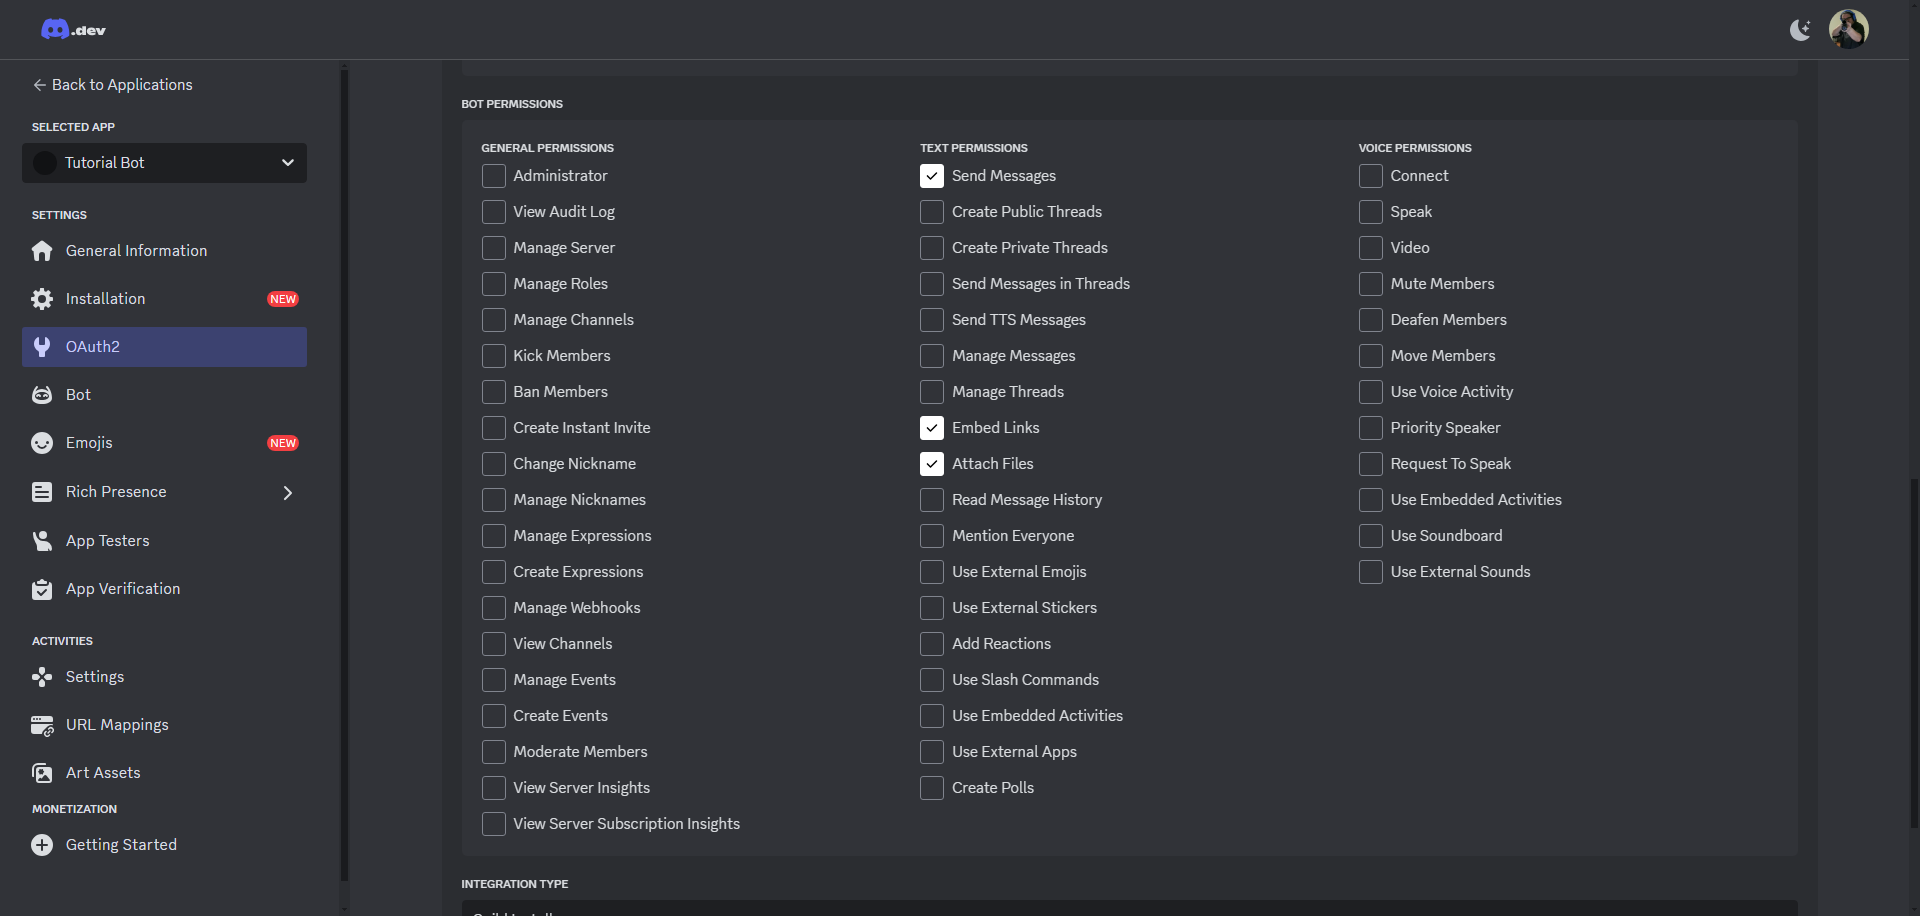
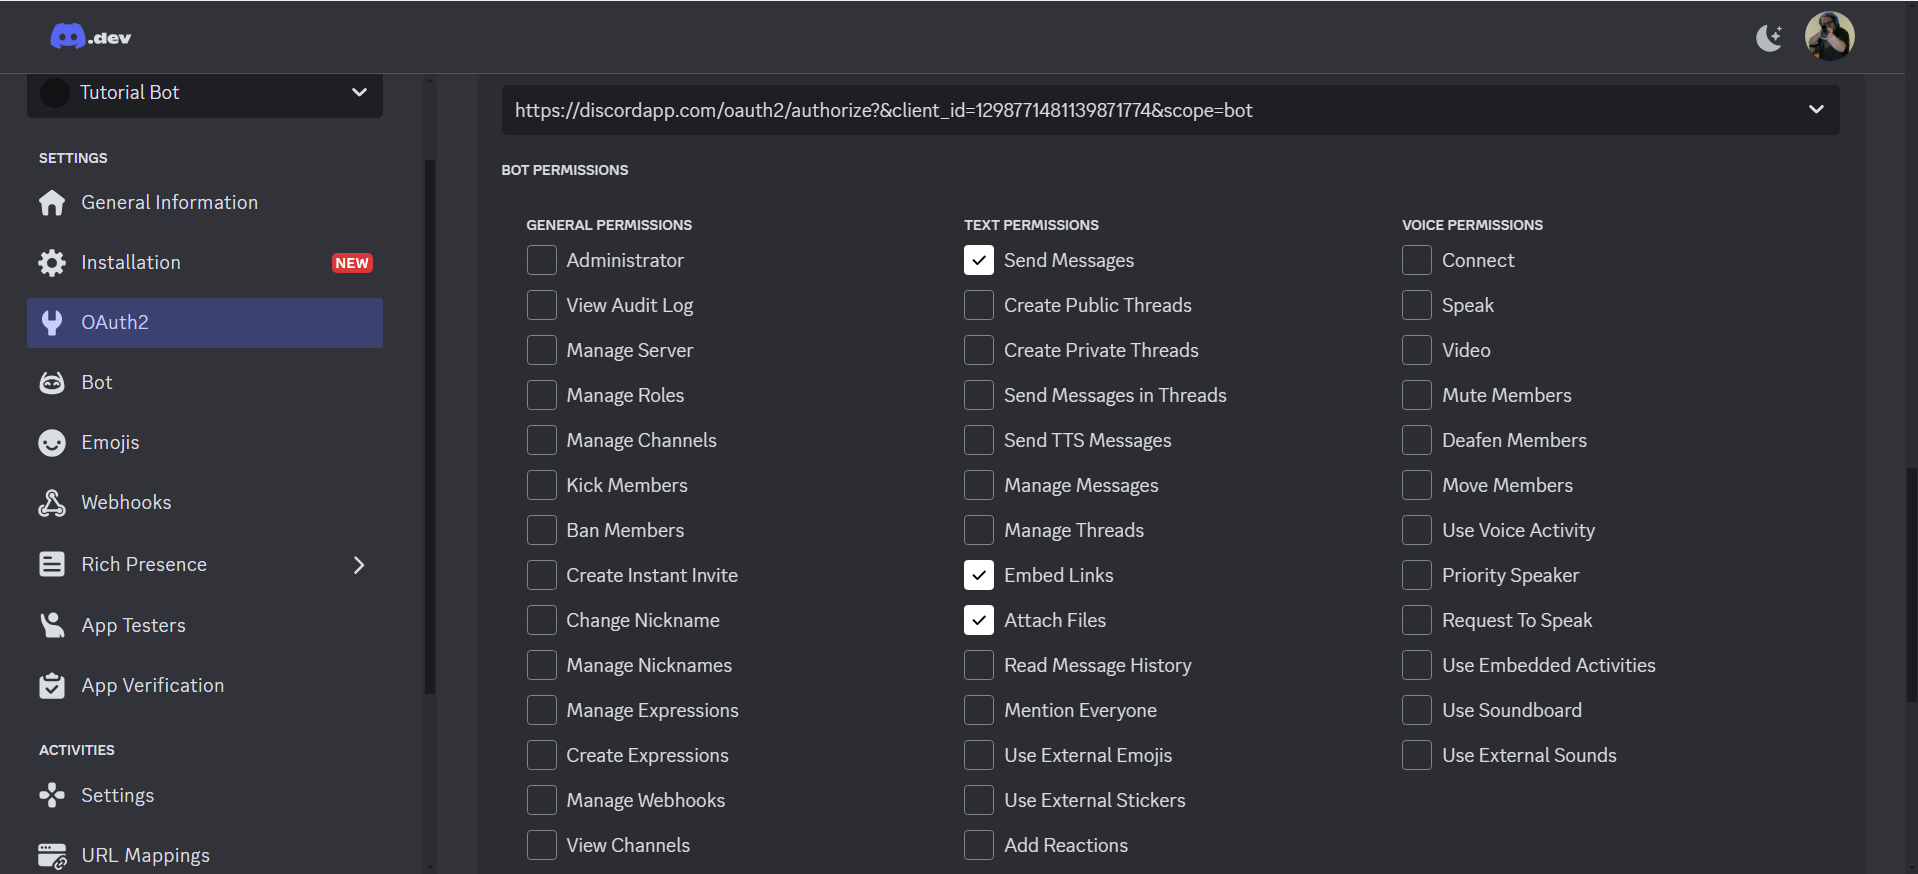
Final touches to this branch which finish the README with the finishing of the instructions and the addition of a short troubleshooting section

diff --git a/README.md b/README.md
@@ -35,8 +35,11 @@ To make a Discord bot you will need to have somewhere to create it and Python it
 * Click the "For me and my freinds button".
 * Name your server and click create. ![name your server](Name_The_Server.png)
 ### 8. Invite the bot to the test server you just made.
+* Go to the Bot tab and scroll down to "Priveleged Gatewat Intents" and turn **on** message content intent. ![turn this on](message-content-intent.png)
 * Go to the OAuth2 tab in your [Discord developer portal](https://discord.com/developers/applications) page for your bot.!(OAuth2 Location)[OAuth2_Loacation.png]
-* Check the bot box under scopes for bot. ![bot scope](Scope-discord.png)
+* Set the URI Redirect to "https://discordapp.com/oauth2/authorize?&client_id={your Client ID here}&scope=bot" ![Redirect URI](ReDirect-URI.png)
+* Check the bot and messages.read boxes under scopes for bot. ![bot scope](Scope-discord.png)
+* Select the Redirect URI you just made. ![Select the Redirect URI](Select-Redirect-URI.png)
 * Check the bot permissions shown in the picture below. ![bot permissions](Bot-permissions.png)
 * Copy the generated URL. ![the generated URL](copy-URL.png)
 * Copy your new URL into your browser.
@@ -63,17 +66,21 @@ prefix = '!'
 ```python
 interval = 7200
 ```
+* Set a variable named first_time and make its value 1
+```python
+first_time = 1
+```
 * Set the client variable up:
 ```python
 client = discord.Client
 ```
 * Finally declare your class and stub out your messages: 
 ```python
+@tasks.loop()
+async def on_interval():
+
+
 class MyClient(discord.Client):
-
-	@tasks.loop()
-	async def on_interval():
-
 
 	async def on_ready(self):
 
@@ -133,29 +140,44 @@ if(prefix + 'gifs') in message_content:
 # this goes in the on_message() function
 if (prefix + 'set interval') in message:
 ```
-* Now we want to edit the global variable (the variable outside the class) called interval. To do this we will start by writing the following line of code inside the if statement:
+* Now we want to edit the global variables (the variables outside the class) called interval and first_time. To do this we will start by writing the following line of code inside the if statement:
 ```python
 # inside the if statement you just wrote
 global interval
+global first_time
 ```
-* The previous step allows us to access the interval variable that is global instead of making a new variable inside the if statement. Now we will set the interval to the value sent by the user in the command using the following command:
+* The previous step allows us to access the interval and first_time variables that is global instead of making a new variable inside the if statement. Now we will set the interval to the value sent by the user in the command using the following command and set first_time to 1:
 ```python
 # inside the if statement you just wrote
 interval = int(message_content[15:])
+first_time = 1
 ```
 * The previous step just takes the last bit of the message (the part after the space between the word interval and the new interval value) and turns it into an int to set the new interval.
+* Now we will reset the on_interval command to run with the new interval.
+```python
+on_interval.change_interval(seconds = interval)
+```
 ### 16. Create the on_interval method.
 * The interval method already is set up to run on the interval defined by the interval variable using the
 ```python
-@tasks.loop(interval)
+@tasks.loop(seconds = interval)
 ```
 command above the methods header.
 * Acquire the channel ID of the channel you want this message to be sent in by right clicking the channel you want it sent in and clicking "Copy Channel ID". ![drop down menu](Channel-Drop-down.png)
+* To make sure this doesn't send as soon as the bot starts write an if statement to prevent it and use the global command to gain access to first_time:
+```python
+global first_time
+if(first_time != 1):
+    ```
 * With the channel id write the following lines of code inside the on_interval method:
 ```python
-# inside the on_interval() function
+# inside the if statement in the on_interval() function
 channel = client.get_channel({channel id})
 await channel.send("Whatever you want this to say")
+```
+* Set the first_time variable to 2 outside of the for loop so that the message will be sent next time it runs:
+```python
+first_time = 2
 ```
 ### 17. Acquire the token for your bot and set it up so your bot can work.
 * Go back to the discord developer portal and go to the page for this bot.
@@ -164,9 +186,16 @@ await channel.send("Whatever you want this to say")
 * A new token will be generated. Copy the token to your clipboard.
 * In your .py file where you have been programming your bot, add the following code:
 ```python
+intents = discord.Intents.default()
+intents.message_content = True
+client = MyClient(intents=intents)
 bot = discord.bot("Your Token Here")
 ```
 ### 18. Run the python program.
-
+* To run your bot's code type "python {bot_file_name}.py" into the terminal.
 ### 19. Test your bot in your test server.
 * Try using the commands you made and see what your new Discord Bot can do!
+
+## Troubleshooting
+* If you are running into compile errors please refer to my sample discord bot for the correct white space since python utilizes white space to determine the inside of functions and if statements
+* If your bot is not sending or receiving messages please be sure to check step 8 and make sure you correctly set up your permissions and scopes and make sure the message content intent is **on**
